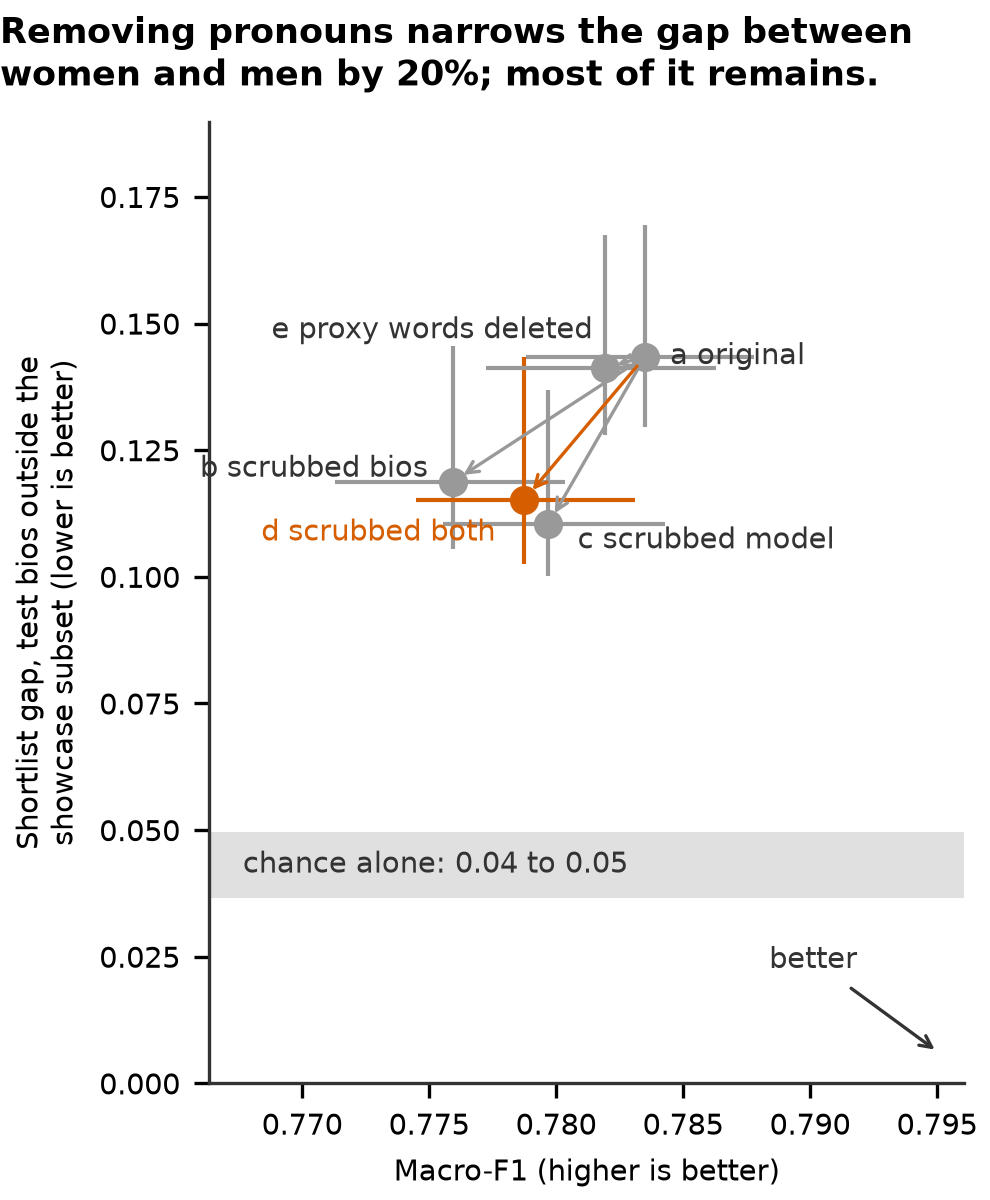
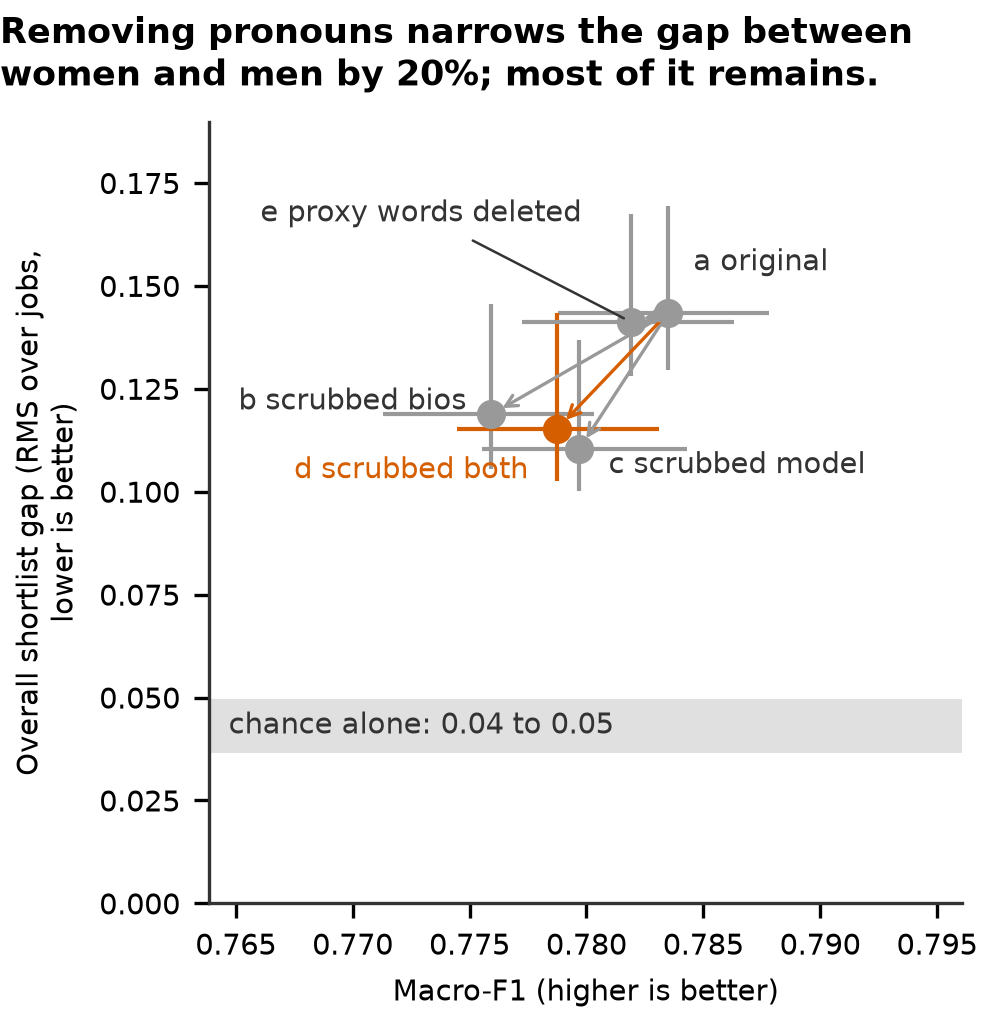
F7: keep labels inside the axes, leader line for e, drop the better arrow, new axis label

diff --git a/scripts/figure_f7.py b/scripts/figure_f7.py
@@ -18,15 +18,16 @@ FIGURE_NAME = "f7_mitigation"
 ORIGINAL = "a"
 HEADLINE = "d"
 DARK = "#333333"
-HEIGHT_INCHES = 4.0
+HEIGHT_INCHES = 3.4
 # name, text offset in points, horizontal alignment
 LABELS = {
-    "a": ("a original", (6, 0), "left"),
+    "a": ("a original", (6, 12), "left"),
     "b": ("b scrubbed bios", (-6, 3), "right"),
     "c": ("c scrubbed model", (7, -4), "left"),
-    "d": ("d scrubbed both", (-7, -8), "right"),
-    "e": ("e proxy words deleted", (-3, 9), "right"),
+    "d": ("d scrubbed both", (-7, -10), "right"),
+    "e": ("e proxy words deleted", (-12, 26), "right"),
 }
+LEADER = "e"  # its dot sits next to a's, so its label hangs off a line
 
 
 def _block(report: dict, condition: str) -> dict:
@@ -67,10 +68,10 @@ def build(report: dict):
     x_high = max(p["macro_f1"]["ci_high"] for p in points.values())
     y_high = max(p["rms_tpr_gap"]["ci_high"] for p in points.values())
     span = x_high - x_low
-    ax.set_xlim(x_low - 0.3 * span, x_high + 0.5 * span)
+    ax.set_xlim(x_low - 0.45 * span, x_high + 0.5 * span)
     ax.set_ylim(0, y_high * 1.12)
     ax.text(
-        x_low - 0.22 * span,
+        x_low - 0.4 * span,
         (null["mean"] + null["p95"]) / 2,
         f"chance alone: {null['mean']:.2f} to {null['p95']:.2f}",
         color=DARK,
@@ -98,6 +99,7 @@ def build(report: dict):
                     "shrinkB": 3,
                 },
             )
+        leader = {"arrowstyle": "-", "color": DARK, "lw": 0.6} if condition == LEADER else None
         ax.annotate(
             label,
             xy=end,
@@ -106,19 +108,10 @@ def build(report: dict):
             color=colour if condition == HEADLINE else DARK,
             ha=align,
             va="center",
+            arrowprops=leader,
         )
-    ax.annotate(
-        "better",
-        xy=(0.97, 0.03),
-        xytext=(0.80, 0.12),
-        xycoords="axes fraction",
-        textcoords="axes fraction",
-        color=DARK,
-        ha="center",
-        arrowprops={"arrowstyle": "->", "color": DARK, "lw": 0.8},
-    )
     ax.set_xlabel("Macro-F1 (higher is better)")
-    ax.set_ylabel("Shortlist gap, test bios outside the\nshowcase subset (lower is better)")
+    ax.set_ylabel("Overall shortlist gap (RMS over jobs,\nlower is better)")
     return fig
 
 
